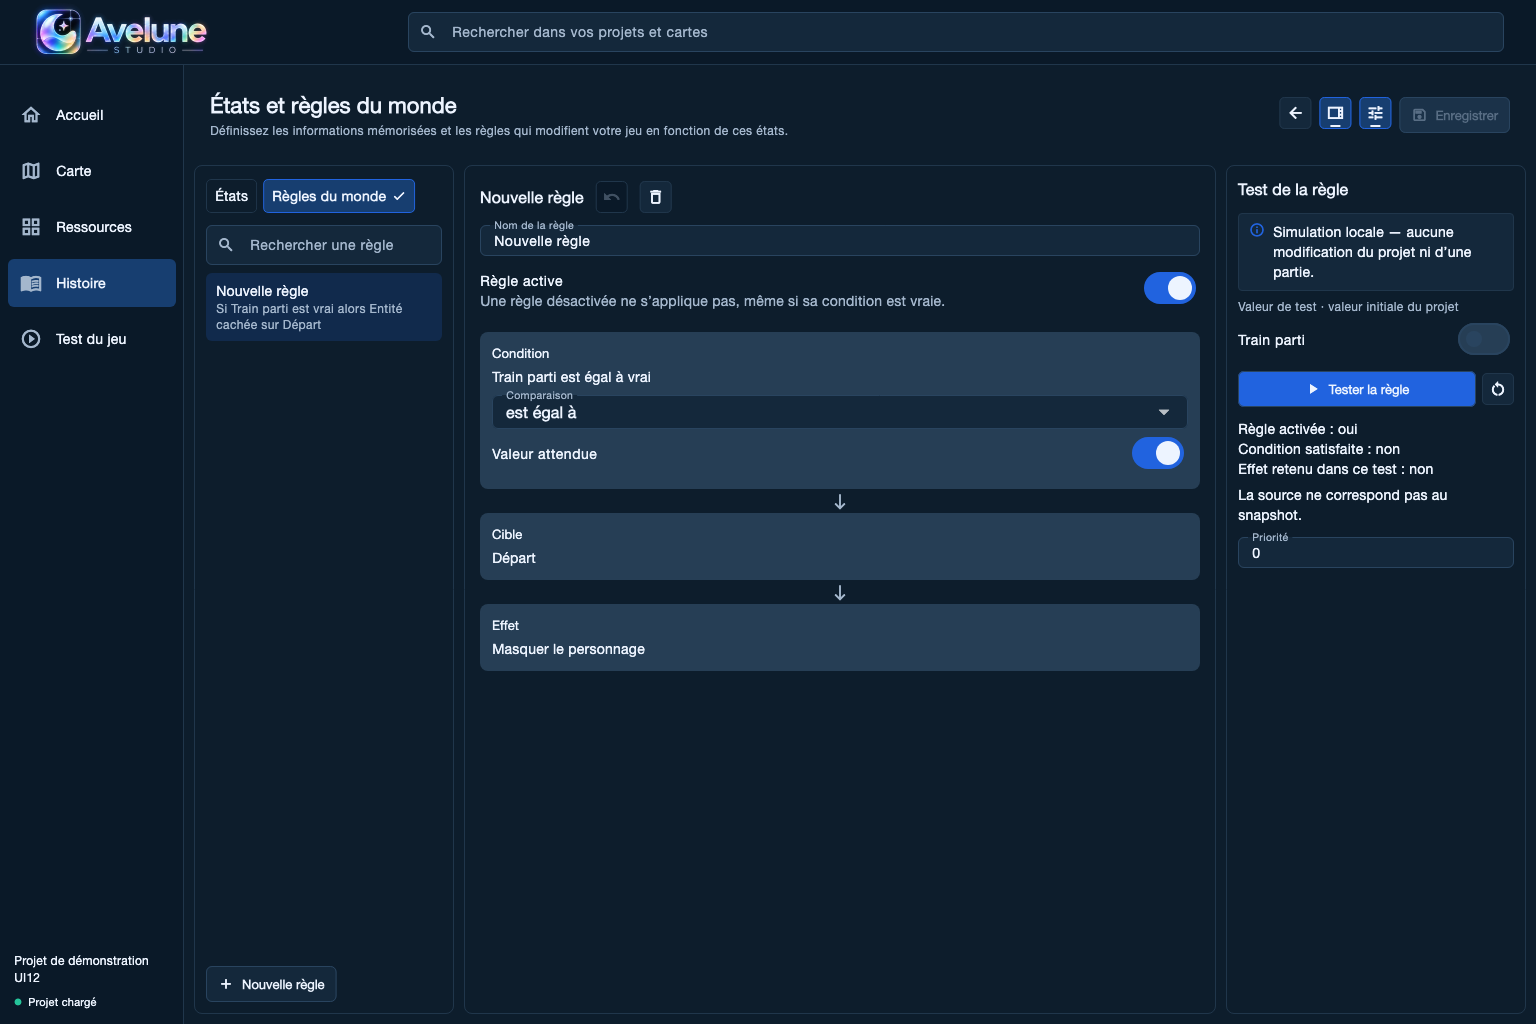
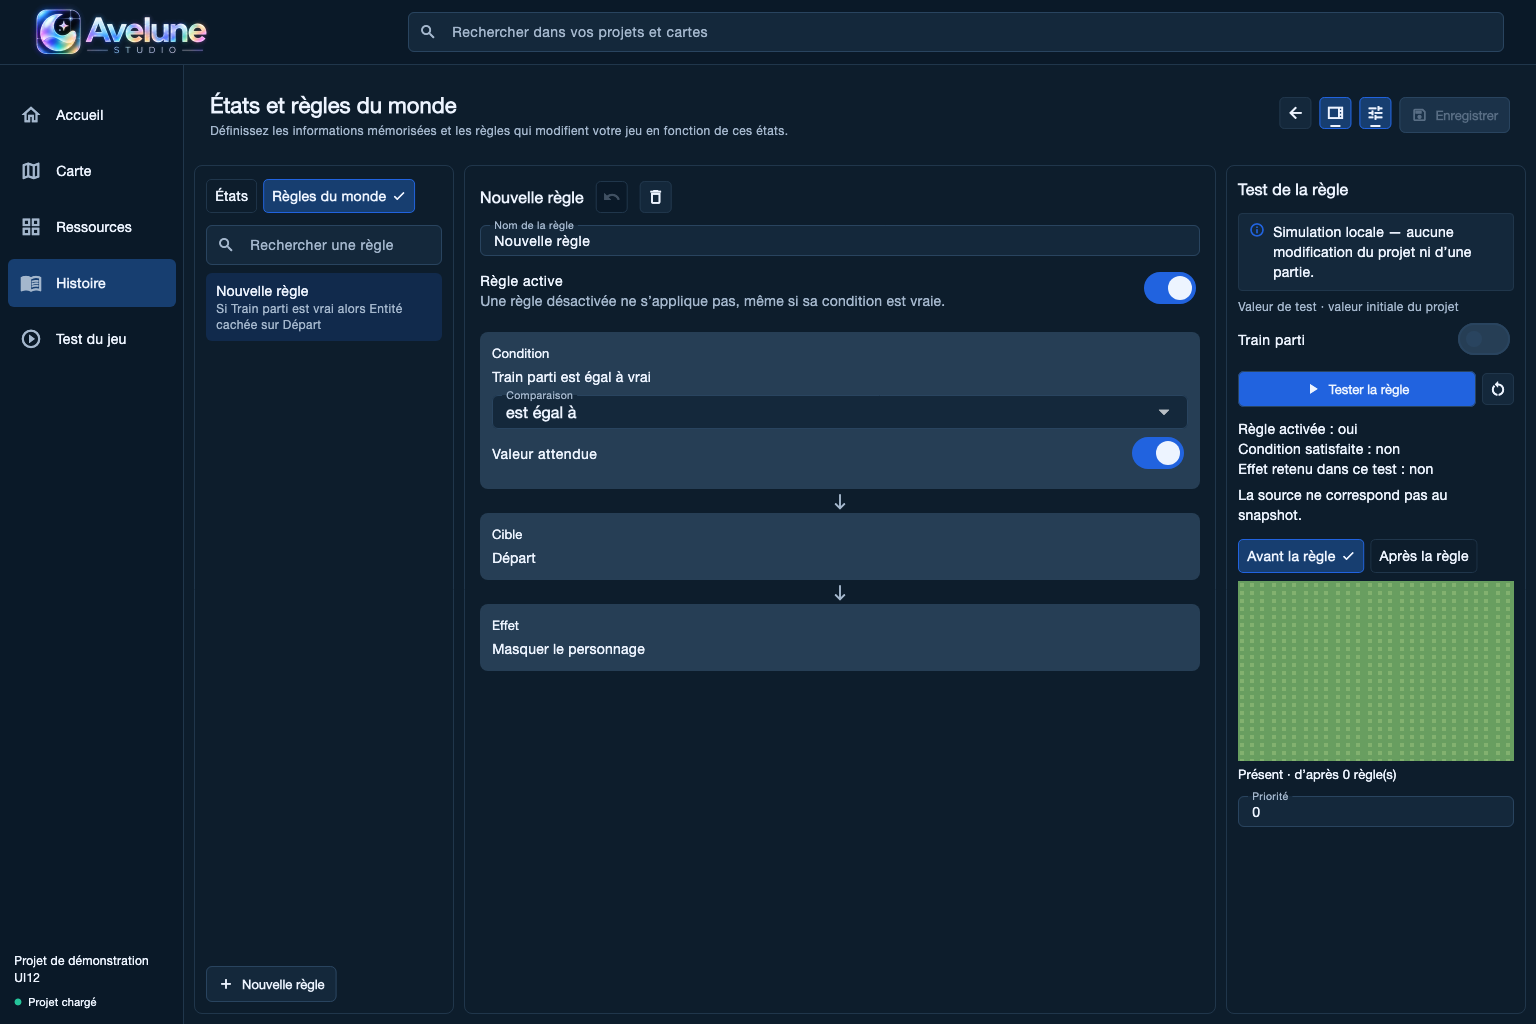
feat(studio): montrer la cible avant et après la règle
Le panneau de test affiche désormais la vraie carte de la cible, avec une
bascule Avant la règle / Après la règle qui conserve le cadrage : le même
contrôleur de transformation sert aux deux états, si bien qu'un déplacement ou
un zoom ne se perd pas au changement de vue.

L'image « après » retire du dessin ce que la projection masque, à partir du
rapport de simulation lui-même. L'image et le verdict ne peuvent donc pas se
contredire, et la légende rappelle combien de règles ont contribué.

Le rendu réutilise le renderer de cartes du workspace ; aucun second
dessinateur n'est introduit, et le panneau n'écrit jamais sur la carte.

Une cible sans représentation visuelle n'obtient pas d'icône inventée : un
événement affiche son état, configuré ou non, actif ou non, masqué ou non. Une
carte non chargée sur l'hôte le dit et renvoie à l'explication textuelle.

Le test bascule la valeur hypothétique et vérifie que la légende passe de
« Présent » à « Absent », de sorte que la preuve porte sur ce que l'auteur voit
et non sur le seul rapport. Capture ui12-03.

Suite Studio 644 verts ; seul l'échec d'environnement connu de
desktop_workspace_layout_test persiste, avec son budget d'E/S de vingt secondes
dépassé sur une machine à forte charge.

Changed region(s): [[0.7812, 0.5, 1.0, 0.7812]]

diff --git a/apps/avelune_studio/lib/presentation/features/world/world_preview.dart b/apps/avelune_studio/lib/presentation/features/world/world_preview.dart
@@ -1,0 +1,134 @@
+part of 'world_workspace_page.dart';
+
+extension _WorldPreview on _WorldWorkspacePageState {
+  /// The target as the game would draw it, before and after the effects the
+  /// current test retains. Panning and zooming never write anything.
+  Widget _preview(WorldRuleDraft draft) {
+    final visuals = widget.visuals;
+    final target = draft.target;
+    if (target == null) {
+      return const Text('Choisissez une cible pour voir son aperçu.');
+    }
+    if (target.kind != WorldRuleTargetKind.mapEntity &&
+        target.kind != WorldRuleTargetKind.npcDialogue) {
+      return _eventOutcome(draft, target);
+    }
+    final map = controller.maps
+        .where((candidate) => candidate.id == target.mapId)
+        .firstOrNull;
+    if (visuals == null || map == null) {
+      return const Text(
+        'La carte de cette cible n’est pas chargée sur cet hôte : le résultat '
+        'reste lisible dans l’explication ci-dessus.',
+      );
+    }
+    final settings = controller.project.settings;
+    final size = Size(
+      map.size.width * settings.tileWidth * settings.displayScale.toDouble(),
+      map.size.height * settings.tileHeight * settings.displayScale.toDouble(),
+    );
+    final shown = view.previewAfter ? _applied(map) : map;
+    return Column(
+      crossAxisAlignment: CrossAxisAlignment.stretch,
+      children: [
+        StudioTabs<bool>(
+          items: const {false: 'Avant la règle', true: 'Après la règle'},
+          selected: view.previewAfter,
+          onChanged: (next) {
+            view.previewAfter = next;
+            refresh();
+          },
+        ),
+        const SizedBox(height: 6),
+        SizedBox(
+          height: 180,
+          child: ClipRect(
+            child: InteractiveViewer(
+              key: const ValueKey('world-preview-viewport'),
+              transformationController: view.previewTransform,
+              constrained: false,
+              alignment: Alignment.topLeft,
+              minScale: .15,
+              maxScale: 8,
+              boundaryMargin: const EdgeInsets.all(300),
+              child: SizedBox(
+                width: size.width,
+                height: size.height,
+                child: visuals.canvas(shown),
+              ),
+            ),
+          ),
+        ),
+        const SizedBox(height: 4),
+        Text(_previewCaption(draft, map), style: _label),
+      ],
+    );
+  }
+
+  /// Removes from the drawing what the projection hides, so the picture and
+  /// the verdict cannot disagree.
+  MapData _applied(MapData map) {
+    final report = controller.report;
+    if (report == null) return map;
+    final hidden = <String>{
+      for (final state in report.entityStates)
+        if (state.mapId == map.id && !state.visible) state.entityId,
+    };
+    if (hidden.isEmpty) return map;
+    return map.copyWith(
+      entities: [
+        for (final entity in map.entities)
+          if (!hidden.contains(entity.id)) entity,
+      ],
+    );
+  }
+
+  String _previewCaption(WorldRuleDraft draft, MapData map) {
+    if (controller.report == null) {
+      return 'Lancez le test pour voir l’état après la règle.';
+    }
+    final entityId = draft.target?.entityId;
+    final state = controller.report!.entityStates
+        .where((item) => item.mapId == map.id && item.entityId == entityId)
+        .firstOrNull;
+    if (state == null) {
+      return 'Cette cible n’apparaît pas dans le rapport de simulation.';
+    }
+    final dialogue = state.dialogueId;
+    return [
+      state.visible ? 'Présent' : 'Absent',
+      if (dialogue != null) 'dialogue $dialogue',
+      'd’après ${state.contributorRuleIds.length} règle(s)',
+    ].join(' · ');
+  }
+
+  /// An event has no picture of its own: its state is told, not drawn.
+  Widget _eventOutcome(WorldRuleDraft draft, WorldRuleTarget target) {
+    final report = controller.report;
+    if (report == null) {
+      return const Text('Lancez le test pour voir l’état de cet événement.');
+    }
+    final eventId = target.eventId;
+    if (target.kind == WorldRuleTargetKind.mapEvent) {
+      final state = report.mapEventStates
+          .where((item) => item.eventId == eventId)
+          .firstOrNull;
+      return Text(
+        state == null
+            ? 'Cet événement n’apparaît pas dans le rapport.'
+            : 'Événement de carte · ${state.active ? 'actif' : 'inactif'}'
+                  '${state.hidden ? ' · masqué' : ''}',
+      );
+    }
+    final state = report.narrativeEventStates
+        .where((item) => item.eventId == eventId)
+        .firstOrNull;
+    return Text(
+      state == null
+          ? 'Cet événement n’apparaît pas dans le rapport.'
+          : 'Événement · ${state.configured ? 'configuré' : 'incomplet'} · '
+                '${state.active ? 'actif' : 'inactif'}'
+                '${state.hidden ? ' · masqué' : ''}',
+    );
+  }
+}

diff --git a/apps/avelune_studio/test/support/ui12_page_harness.dart b/apps/avelune_studio/test/support/ui12_page_harness.dart
@@ -1,4 +1,6 @@
 import 'package:avelune_studio/features/world/application/world_workspace_controller.dart';
+import 'package:avelune_studio/platform/rendering/studio_map_resources.dart';
+import 'package:avelune_studio/presentation/features/map_workspace/map_workspace_visuals.dart';
 import 'package:avelune_studio/presentation/features/world/world_view_state.dart';
 import 'package:avelune_studio/presentation/features/world/world_workspace_page.dart';
 import 'package:avelune_studio/presentation/shared/widgets/layout/studio_application_frame.dart';
@@ -13,9 +15,10 @@ import 'ui12_world_harness.dart';
 
 /// The UI12 page inside the Avelune frame, on a real project.
 class Ui12PageHarness {
-  Ui12PageHarness(this.world);
+  Ui12PageHarness(this.world, this.visuals);
 
   final Ui12WorldHarness world;
+  final MapWorkspaceVisuals visuals;
   final view = WorldViewState();
   final search = TextEditingController();
   final captureKey = GlobalKey();
@@ -30,7 +33,11 @@ class Ui12PageHarness {
       wrap: (port) => Ui12WidgetWorldPort(port, tester),
       initialize: false,
     );
-    final harness = Ui12PageHarness(world);
+    final visuals = await StudioMapResources.load(
+      world.session,
+      world.maps.project!,
+    );
+    final harness = Ui12PageHarness(world, visuals);
     world.onChanged = () => harness.changes.value++;
     return harness;
   }
@@ -59,6 +66,7 @@ class Ui12PageHarness {
               controller: controller,
               view: view,
               onBack: () => returned = true,
+              visuals: visuals,
             ),
           ),
         ),

diff --git a/apps/avelune_studio/test/ui12_world_page_test.dart b/apps/avelune_studio/test/ui12_world_page_test.dart
@@ -1,5 +1,7 @@
 import 'dart:async';
 
+import 'package:avelune_studio/features/world/application/world_workspace_controller.dart';
+
 import 'package:avelune_studio/presentation/features/world/world_view_state.dart';
 import 'package:flutter/material.dart';
 import 'package:flutter_test/flutter_test.dart';
@@ -89,7 +91,25 @@ void main() {
     expect(h.controller.error, isNull);
     await activate(tester, find.text('Tester la règle'));
     expect(h.controller.report, isNotNull);
+    expect(find.text('Avant la règle'), findsOneWidget);
     await h.capture(tester, 'ui12-02-regle');
+
+    // The condition holds only once the test value says the train has left.
+    await activate(tester, find.text('Après la règle'));
+    expect(find.textContaining('Présent'), findsOneWidget);
+
+    await activate(tester, find.byType(Switch).last);
+    expect(
+      h.controller.isHypothetical(factId),
+      isTrue,
+      reason: 'The test value is a hypothesis, not the project value',
+    );
+    expect(
+      find.textContaining('Absent'),
+      findsOneWidget,
+      reason: 'The picture and the verdict must agree once the rule applies',
+    );
+    await h.capture(tester, 'ui12-03-apres');
 
     expect(
       h.controller.fact(factId)!.initialValue,

diff --git a/apps/avelune_studio/lib/presentation/features/world/world_workspace_page.dart b/apps/avelune_studio/lib/presentation/features/world/world_workspace_page.dart
@@ -15,6 +15,7 @@ import '../../shared/widgets/inputs/studio_toggle_row.dart';
 import '../../shared/widgets/layout/studio_page_header.dart';
 import '../../shared/widgets/layout/studio_panel.dart';
 import '../../shared/widgets/feedback/studio_empty_state.dart';
+import '../map_workspace/map_workspace_visuals.dart';
 import 'world_view_state.dart';
 
 part 'world_library.dart';
@@ -22,6 +23,7 @@ part 'world_fact_editor.dart';
 part 'world_rule_composer.dart';
 part 'world_rule_pickers.dart';
 part 'world_context_panel.dart';
+part 'world_preview.dart';
 
 class WorldWorkspacePage extends StatefulWidget {
   const WorldWorkspacePage({
@@ -32,6 +34,7 @@ class WorldWorkspacePage extends StatefulWidget {
     this.backLabel = 'Histoire',
     this.onOpenScene,
     this.onOpenDialogue,
+    this.visuals,
   });
 
   final WorldWorkspaceController controller;
@@ -40,6 +43,7 @@ class WorldWorkspacePage extends StatefulWidget {
   final String backLabel;
   final Future<void> Function(String sceneId)? onOpenScene;
   final Future<void> Function(String dialogueId)? onOpenDialogue;
+  final MapWorkspaceVisuals? visuals;
 
   @override
   State<WorldWorkspacePage> createState() => _WorldWorkspacePageState();

diff --git a/apps/avelune_studio/lib/presentation/features/world/world_view_state.dart b/apps/avelune_studio/lib/presentation/features/world/world_view_state.dart
@@ -11,9 +11,12 @@ class WorldViewState {
   WorldView view = WorldView.states;
   bool libraryOpen = true, contextOpen = true;
   String factCategory = '';
+  bool previewAfter = false;
+  final previewTransform = TransformationController();
   String? actionError;
 
   void dispose() {
+    previewTransform.dispose();
     factSearch.dispose();
     ruleSearch.dispose();
   }

diff --git a/apps/avelune_studio/lib/presentation/features/map_workspace/workspace_world_binding.dart b/apps/avelune_studio/lib/presentation/features/map_workspace/workspace_world_binding.dart
@@ -48,6 +48,7 @@ extension _WorkspaceWorldBinding on _MapWorkspaceScreenState {
     return WorldWorkspacePage(
       controller: owner,
       view: _worldView,
+      visuals: _visuals,
       onBack: () => unawaited(_returnFromWorld()),
       backLabel: _worldOrigin.space == WorkspaceSpace.scene
           ? 'la scène'

diff --git a/apps/avelune_studio/lib/presentation/features/world/world_context_panel.dart b/apps/avelune_studio/lib/presentation/features/world/world_context_panel.dart
@@ -163,6 +163,8 @@ extension _WorldContextPanel on _WorldWorkspacePageState {
           ),
       ],
       const SizedBox(height: 12),
+      _preview(draft),
+      const SizedBox(height: 12),
       StudioCommitField(
         label: 'Priorité',
         value: '${draft.priority}',
